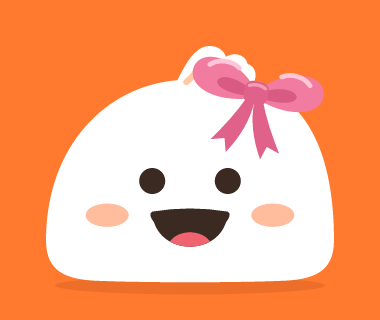
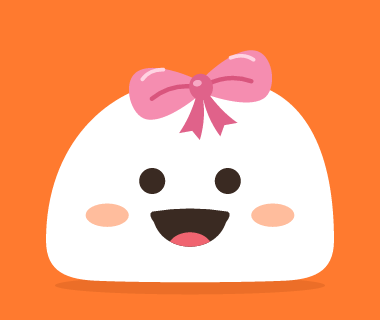
코코 리본 다시 그리기: 가운데가 조여진 나비 리본을 정수리에
- 고리는 매듭 쪽이 좁고 바깥이 둥근 나비 모양 + 안쪽 접힌 주름선, 꼬리는 짧게 퍼지게, 매듭은 동그랗게
- 만두 꼭지를 숨기고 정수리 가운데에 살짝 기울여 얹음 (꼭지·주름이 삐져나와 지저분하던 문제)

Changed region(s): [[0.3184, 0.125, 0.8684, 0.5]]

diff --git a/app/src/components/Outfits.tsx b/app/src/components/Outfits.tsx
@@ -1,11 +1,11 @@
 // 코코 옷(머리 장식). 코코 그림과 같은 viewBox(400×320) 좌표로 그려서 CocoArt 위에 겹친다
-import { Circle, G, Path, Rect } from 'react-native-svg';
+import { Circle, Ellipse, G, Path, Rect } from 'react-native-svg';
 
 export type OutfitId = 'ribbon' | 'beanie' | 'straw' | 'beret' | 'crown' | 'party' | 'headphones' | 'earflap' | 'trapper';
 
 // 모자 그림의 기준점(from)을 코코 머리 위 자리(to)에 맞추고, k배 키우고 r도 기울인다. top = 얹었을 때 가장 위쪽 y
 const FIT: Record<OutfitId, { from: [number, number]; to: [number, number]; k: number; r?: number; top: number }> = {
-  ribbon: { from: [268, 82], to: [274, 90], k: 1.5, r: 12, top: 40 },
+  ribbon: { from: [268, 82], to: [212, 84], k: 1.65, r: -10, top: 40 },
   beanie: { from: [225, 104], to: [203, 150], k: 1.45, top: 5 },
   straw: { from: [225, 114], to: [203, 104], k: 1.25, top: 9 },
   beret: { from: [225, 104], to: [200, 142], k: 1.4, top: 24 },
@@ -16,9 +16,9 @@ const FIT: Record<OutfitId, { from: [number, number]; to: [number, number]; k: n
   trapper: { from: [0, 0], to: [0, 0], k: 1, top: 62 },
 };
 
-/** 머리를 덮는 모자는 만두 꼭지를 숨긴다 (리본은 꼭지가 보이는 게 귀엽다) */
+/** 머리에 얹는 옷은 만두 꼭지를 숨긴다 */
 export const COVERS_KNOB: Record<OutfitId, boolean> = {
-  ribbon: false,
+  ribbon: true,
   beanie: true,
   straw: true,
   beret: true,
@@ -44,22 +44,19 @@ export function OutfitArt({ id }: { id: OutfitId }) {
 function Hat({ id }: { id: OutfitId }) {
   switch (id) {
     case 'ribbon':
+      // 가운데가 조여진 나비 리본: 고리 두 개 + 접힌 주름 + 짧게 퍼지는 꼬리 + 동그란 매듭
       return (
         <G>
-          {/* 꼬리: 끝이 V자로 파인 리본 끈 */}
-          <Path d="M262,88 C257,100 250,112 242,124 L252,121 L255,131 C263,118 268,104 268,90 Z" fill="#e0628a" />
-          <Path d="M274,88 C279,100 286,112 294,124 L284,121 L281,131 C273,118 268,104 268,90 Z" fill="#e0628a" />
-          {/* 통통한 고리 두 개 + 안쪽 접힌 그림자 */}
-          <Path d="M268,83 C254,63 224,57 219,73 C215,89 240,98 268,87 Z" fill="#f27ca0" />
-          <Path d="M268,83 C282,63 312,57 317,73 C321,89 296,98 268,87 Z" fill="#f27ca0" />
-          <Path d="M267,84 C256,76 241,74 238,80 C237,86 252,89 267,86 Z" fill="#d95a82" />
-          <Path d="M269,84 C280,76 295,74 298,80 C299,86 284,89 269,86 Z" fill="#d95a82" />
-          {/* 반짝이는 윗면 */}
-          <Path d="M230,70 C236,64 246,64 252,68" stroke="#ffc6d8" strokeWidth={3.5} strokeLinecap="round" fill="none" />
-          <Path d="M284,68 C290,64 300,64 306,70" stroke="#ffc6d8" strokeWidth={3.5} strokeLinecap="round" fill="none" />
-          {/* 매듭 */}
-          <Rect x={259} y={75} width={18} height={17} rx={6} fill="#e0628a" />
-          <Path d="M262,79 C266,77 270,77 274,79" stroke="#f59bb8" strokeWidth={2.5} strokeLinecap="round" fill="none" />
+          <Path d="M264,88 C260,96 255,104 248,111 L257,111 L261,118 C266,108 268,98 268,89 Z" fill="#e0628a" />
+          <Path d="M272,88 C276,96 281,104 288,111 L279,111 L275,118 C270,108 268,98 268,89 Z" fill="#e0628a" />
+          <Path d="M268,79 C256,70 236,60 226,66 C216,72 218,94 228,98 C238,102 256,94 268,87 Z" fill="#f58db0" />
+          <Path d="M268,79 C280,70 300,60 310,66 C320,72 318,94 308,98 C298,102 280,94 268,87 Z" fill="#f58db0" />
+          <Path d="M264,82 C254,79 243,80 234,85" stroke="#d9557d" strokeWidth={3} strokeLinecap="round" fill="none" />
+          <Path d="M272,82 C282,79 293,80 302,85" stroke="#d9557d" strokeWidth={3} strokeLinecap="round" fill="none" />
+          <Path d="M230,71 C234,67 240,66 245,67" stroke="#ffd3e2" strokeWidth={2.6} strokeLinecap="round" fill="none" />
+          <Path d="M291,67 C296,66 302,67 306,71" stroke="#ffd3e2" strokeWidth={2.6} strokeLinecap="round" fill="none" />
+          <Ellipse cx={268} cy={83} rx={8} ry={9} fill="#e0628a" />
+          <Ellipse cx={266} cy={80} rx={3} ry={2.2} fill="#f7a8c4" />
         </G>
       );
     case 'beanie':
